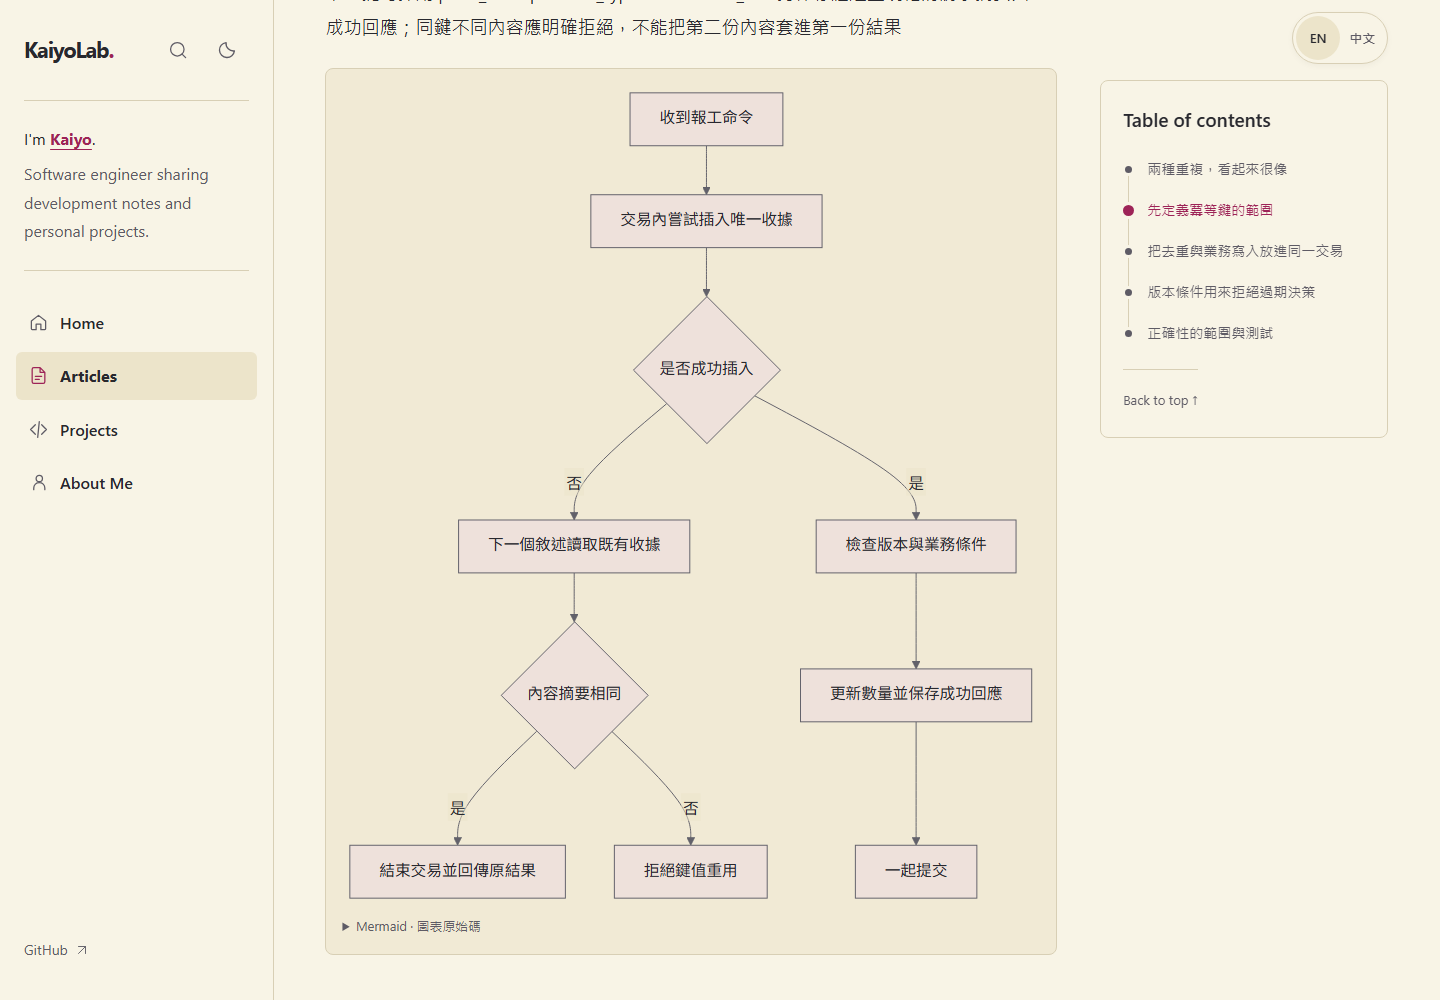
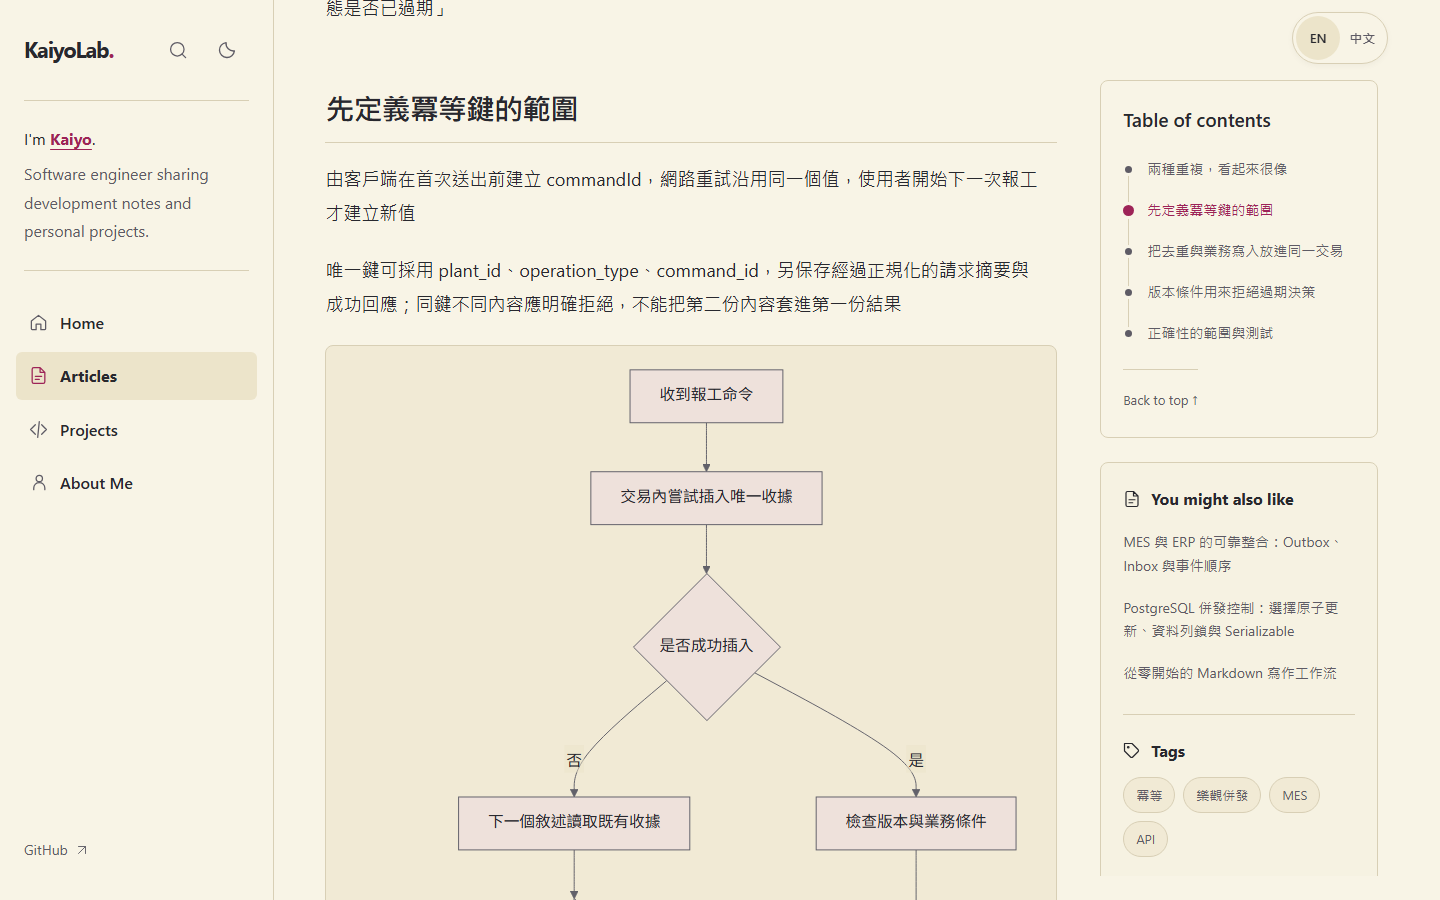
讓文章目錄與推薦內容共同固定 (#21)
* 讓目錄與推薦文章共同固定並整理優化項目

* 更新側欄語言測試並記錄設定覆蓋重現結果

---------

diff --git a/src/styles/article-detail.css b/src/styles/article-detail.css
@@ -191,7 +191,7 @@
 .public-site .article-detail .article-outline {
   display: grid;
   gap: 0;
-  /* The card is the only scroll container, including very long outlines. */
+  /* 目錄與推薦共用外層捲動區，長目錄不建立第二層捲軸 */
   max-height: none;
   overflow: visible;
 }
@@ -252,18 +252,27 @@
   top: 16px;
   background: var(--accent);
 }
-.public-site .article-detail .article-rail-card {
+.public-site .article-detail .article-rail-sticky {
   position: sticky;
-  z-index: 1;
   top: 80px;
   max-height: calc(100dvh - 104px);
   overflow-y: auto;
   overscroll-behavior-y: contain;
   scrollbar-width: thin;
+  scrollbar-gutter: stable;
+  overflow-anchor: none;
+}
+.public-site .article-detail .article-rail-sticky:focus-visible {
+  outline: 3px solid var(--accent);
+  outline-offset: 2px;
+}
+.public-site .article-detail .article-rail-card {
+  position: static;
+  max-height: none;
+  overflow: visible;
   padding: 24px 22px;
   border: 1px solid var(--border);
   border-radius: 8px;
-  /* Opaque while supplementary information scrolls behind the reading tools. */
   background: var(--bg);
 }
 .public-site .article-detail .article-rail-card h2,

diff --git a/tests/e2e/zzzz-article-layout.spec.ts b/tests/e2e/zzzz-article-layout.spec.ts
@@ -94,7 +94,8 @@ test('switching interface language preserves authored article and outline conten
   const url = page.url();
   await page.getByRole('button', { name: '繁體中文', exact: true }).click();
   await expect(page.getByRole('link', { name: '返回文章列表', exact: true })).toBeVisible();
-  await expect(page.locator('.article-rail > .article-rail-card > h2')).toHaveText('目錄', { useInnerText: true });
+  await expect(page.locator('.article-rail').getByRole('heading', { name: '目錄', exact: true })).toBeVisible();
+  await expect(page.getByRole('region', { name: '文章閱讀工具', exact: true })).toBeVisible();
   expect(await authored()).toEqual(original);
   expect(page.url()).toBe(url);
   await page.getByRole('button', { name: 'English', exact: true }).click();

diff --git a/docs/optimization-review-2026-09-29.md b/docs/optimization-review-2026-09-29.md
@@ -1,0 +1,94 @@
+# KaiyoLab 優化檢查紀錄
+
+檢查日期：2026-09-29
+
+檢查基準：`057a2960dec5820cb157d821962d7d2c543ef207`，正式站六篇 MES／併發控制文章
+
+本次實作僅調整目錄與推薦文章共同固定，其餘項目是後續建議，尚未修正
+
+## 優先處理
+
+### 1｜設定與關於我共用版本保護
+
+**已在本機重現的資料覆蓋問題，優先度 P1**
+
+兩個頁面都讀取完整網站設定，再整包寫回，後端沒有版本條件
+
+操作情境：同時開啟設定與關於我，先在設定頁儲存首頁介紹，再從原先的關於我頁儲存作者介紹，第二次儲存會帶上舊的首頁介紹
+
+獨立本機資料庫實測兩次儲存都回傳 200，第二次使第一份修改消失，沒有衝突提示，測試後已還原完整設定並比對一致
+
+建議沿用文章編輯器的衝突處理方式，設定加入版本條件，只接受讀取版本一致的更新，衝突時保留表單內容並提示重新載入，避免靜默覆寫
+
+依據：[設定表單](../src/components/admin/AdminApp.tsx)的 `SettingsForm` 與 [設定 API](../src/pages/api/admin/%5B...path%5D.ts)的 settings PUT；本次未在正式站執行寫入重現
+
+### 2｜匯入改名時同步修正站內連結
+
+**程式碼確認的連結錯置，優先度 P2**
+
+文章網址衝突時會改成 `b-import-1`，目前只重寫圖片網址，文章 A 原本指向 `/articles/b` 的連結仍然保留，可能連到目的站另一篇同名文章，網址存在檢查也無法發現語意錯誤
+
+建議先建立文章與作品的原網址／新網址映射，再解析並重寫 Markdown 站內連結，保留查詢字串及章節錨點，在匯入預覽顯示變更清單
+
+依據：[匯入規則](../src/lib/portability.ts)的 slug 配置、`rewriteImages` 與匯入內容組裝；本次未在正式站執行匯入
+
+### 3｜處理部署期間的短暫中斷
+
+**正式設定與部署事件確認，維運優先項目**
+
+目前服務為單一副本、`Recreate` 策略，部署時先停舊容器，再啟動新容器，前次切換已觀察到短暫 502，映像下載與啟動成功後網站恢復
+
+[Zeabur 官方文件](https://zeabur.com/docs/en-US/operations/monitoring/health-checks)說明掛載 volume 的服務使用此策略，因此單純調整健康檢查不能消除容器切換空窗
+
+若需要部署不中斷，下一步先評估把媒體改成共用物件儲存，將密鑰交給部署環境管理，並處理維運紀錄與 migration 的多實例一致性，應用程式不再依賴掛載 volume 後才評估平台支援的滾動更新，不能直接把現有 volume 強制改成雙實例
+
+若保留目前架構，可先建立明確的部署時段與代理維護回應，避免訪客只看到未說明的 502
+
+### 4｜手機列表先顯示文章
+
+**正式畫面量測，優先度 P2**
+
+375 × 812 的文章列表目前有 17 個標籤，標籤區占 208px，第一篇標題位於距離頁面頂端約 837px，首屏看不到文章標題
+
+建議僅在手機把未選取的標籤收合為「標籤 17」，已選條件繼續顯示，維持目前的搜尋、分類與文章列表配置
+
+依據：[文章列表](../src/pages/articles/index.astro)與 [公開頁樣式](../src/styles/public.css)，375px 畫面沒有整頁橫向溢出
+
+### 5｜搜尋支援多個關鍵字
+
+**正式 GET 重現，優先度 P2**
+
+搜尋 `MES` 得到 3 篇，搜尋 `併發` 得到 3 篇，兩組有共同文章，但 `MES 併發` 為 0 篇，目前整串輸入視為必須連續出現的片語
+
+建議先支援以空白分隔的多個關鍵字，每個詞可命中標題、摘要或正文，再加入明確的引號片語模式，後續才考慮標題優先排序與命中摘要
+
+依據：[公開內容查詢](../src/lib/content.ts)的 `listPublished`
+
+### 6｜統一閱讀時間
+
+**正式畫面重現，優先度 P2**
+
+〈MES Domain：從工單到現場執行的系統邊界〉在列表顯示 4 分鐘，內頁顯示 3 分鐘，列表以原始 Markdown 長度估算，內頁採另一套中文／英文計數規則
+
+建議抽出共用的純文字閱讀時間計算，首頁、列表、推薦與內頁使用相同結果，程式碼、圖表語法和連結網址採一致的計算規則
+
+依據：[文章卡片](../src/components/public/EntryCard.astro)與 [Markdown 渲染](../src/lib/markdown.ts)
+
+## 接續改善
+
+- **文章語言標記**：中文正文目前繼承英文介面的 `lang=en`，正文與標題應標示內容語言 `zh-Hant`，介面仍可維持英文，RSS 與 Open Graph 的語言設定也應依內容設定；這符合 [W3C 不同語言段落的標記原則](https://www.w3.org/WAI/WCAG22/Understanding/language-of-parts)
+- **分享資訊**：六篇沒有封面的文章目前缺少 `og:image`，可產生站名與標題的預設分享卡，再補文章作者、首次發布與更新時間的結構化資料，閱讀頁不需改版
+- **發布檢查**：沿用現有發布對話框，補 Mermaid 語法／支援範圍與 `#章節` 錨點檢查，提示圖表位置與不存在的章節；目前 [發布檢查](../src/lib/content-review.ts)未涵蓋這兩項
+- **備份可見性**：專案提供手動備份與還原驗證，可再交付可設定的排程、異地副本與備份逾期提示；此結論只針對專案交付的 [Compose](../compose.yaml) 與 [系統狀態頁](../src/components/admin/SystemStatus.tsx)，未推定 Zeabur 是否另有平台備份
+
+## 尚需故障注入確認
+
+圖片上傳先寫檔，再登記資料庫，登記發生例外時直接刪檔，若資料庫已提交但回應途中中斷，可能留下媒體紀錄卻刪除圖片
+
+此情境依 [媒體上傳 API](../src/pages/api/admin/%5B...path%5D.ts) 的錯誤處理推導，本次未注入資料庫連線故障，不能當成正式站已發生的事故
+
+建議在獨立測試環境模擬「提交成功、回應遺失」，確認結果不明時能重新查詢，無法確認便保留檔案待後續一致性檢查
+
+## 建議順序
+
+先補設定版本保護與匯入連結正確性，再改善手機列表、搜尋及閱讀時間；不中斷部署涉及儲存方式，應作為獨立的維運調整評估

diff --git a/docs/markdown-diagrams.md b/docs/markdown-diagrams.md
@@ -36,7 +36,7 @@ sequenceDiagram
 - 圖表下方可展開 Mermaid 原始碼；鍵盤可操作來源與捲動區域
 - 尚未載入 JavaScript 或語法有錯時，仍保留可讀取的原始碼
 - 只有含圖表且接近畫面的內容才載入 Mermaid，不把圖表程式套到所有閱讀頁
-- 文章目錄會在右欄保持固定，接近整篇文章底部才隨文章離開；手機以折疊目錄呈現
+- 文章目錄與「你可能也喜歡」會一起固定在右欄，接近整篇文章底部才隨文章離開；側欄超過視窗高度時，兩個面板共用一層捲動區，手機維持折疊目錄
 
 ## 支援範圍
 
